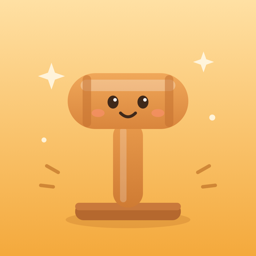
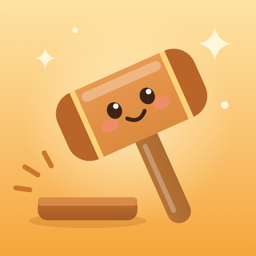
feat(아이콘): 내리치는 판사봉으로 다시 그림 — 다크 · 틴트 추가
그림은 scripts/make_app_icon.py 의 art() 가 전부다. 소개 페이지 아이콘도 같이 바꿨다.

diff --git a/scripts/render_svg.swift b/scripts/render_svg.swift
@@ -1,0 +1,16 @@
+import AppKit
+// SVG 한 장을 1024×1024 PNG 로 그린다 (→ make_app_icon.py).
+// 쓰기: render in.svg out.png opaque|alpha
+let a = CommandLine.arguments
+let img = NSImage(contentsOf: URL(fileURLWithPath: a[1]))!
+let opaque = a[3] == "opaque"
+let cs = CGColorSpace(name: CGColorSpace.sRGB)!
+let info = opaque ? CGImageAlphaInfo.noneSkipLast.rawValue : CGImageAlphaInfo.premultipliedLast.rawValue
+let ctx = CGContext(data: nil, width: 1024, height: 1024, bitsPerComponent: 8, bytesPerRow: 0, space: cs, bitmapInfo: info)!
+ctx.interpolationQuality = .high
+NSGraphicsContext.current = NSGraphicsContext(cgContext: ctx, flipped: false)
+img.draw(in: NSRect(x: 0, y: 0, width: 1024, height: 1024))
+let cg = ctx.makeImage()!
+let dest = CGImageDestinationCreateWithURL(URL(fileURLWithPath: a[2]) as CFURL, "public.png" as CFString, 1, nil)!
+CGImageDestinationAddImage(dest, cg, nil)
+print(CGImageDestinationFinalize(dest))

diff --git a/scripts/make_app_icon.py b/scripts/make_app_icon.py
@@ -1,0 +1,87 @@
+#!/usr/bin/env python3
+"""앱 아이콘 생성: 판사봉 캐릭터 SVG → 1024 PNG 세 벌(기본 · 다크 · 틴트) + 소개 페이지 아이콘.
+
+사용법:
+    python3 scripts/make_app_icon.py
+
+그림은 이 파일의 art() 가 전부다. 고친 뒤 다시 돌리면 AppIcon.appiconset 과 docs/icon.png 가 바뀐다.
+SVG → PNG 는 macOS 기본 그리기(scripts/render_svg.swift)로 한다. 따로 깔 것이 없다.
+"""
+import subprocess, pathlib, tempfile
+here=pathlib.Path(__file__).parent
+
+def art(mode):
+    gray = mode=="tinted"
+    def c(col, g):  # color or gray
+        return g if gray else col
+    bg = ""
+    if mode=="light":
+        bg = '<rect width="1024" height="1024" fill="url(#bg)"/><circle cx="512" cy="470" r="430" fill="url(#glow)"/>'
+    elif mode=="tinted":
+        bg = '<rect width="1024" height="1024" fill="url(#bgT)"/>'
+    spark = c("#FFF6DC","#FFFFFF") if mode!="dark" else "#FFE9B8"
+    line = c("#C9772B","#BDBDBD") if mode=="light" else c("#F2B45C","#BDBDBD")
+    shadow = '<ellipse cx="350" cy="884" rx="236" ry="30" fill="#B5651D" opacity=".28"/>' if mode=="light" else ''
+    return f'''<svg xmlns="http://www.w3.org/2000/svg" width="1024" height="1024" viewBox="0 0 1024 1024">
+<defs>
+<linearGradient id="bg" x1="0" y1="0" x2="0" y2="1"><stop offset="0" stop-color="#FFE3A3"/><stop offset="1" stop-color="#F5A63B"/></linearGradient>
+<linearGradient id="bgT" x1="0" y1="0" x2="0" y2="1"><stop offset="0" stop-color="#2E2E2E"/><stop offset="1" stop-color="#121212"/></linearGradient>
+<radialGradient id="glow"><stop offset="0" stop-color="#FFF4CF" stop-opacity=".75"/><stop offset="1" stop-color="#FFF4CF" stop-opacity="0"/></radialGradient>
+<linearGradient id="head" x1="0" y1="0" x2="0" y2="1"><stop offset="0" stop-color="{c('#F0A55A','#F2F2F2')}"/><stop offset="1" stop-color="{c('#D27D33','#BEBEBE')}"/></linearGradient>
+<linearGradient id="handle" x1="0" y1="0" x2="1" y2="0"><stop offset="0" stop-color="{c('#C4813F','#D0D0D0')}"/><stop offset="1" stop-color="{c('#9C5B26','#9A9A9A')}"/></linearGradient>
+<linearGradient id="block" x1="0" y1="0" x2="0" y2="1"><stop offset="0" stop-color="{c('#C47435','#B0B0B0')}"/><stop offset="1" stop-color="{c('#A45A24','#8A8A8A')}"/></linearGradient>
+<clipPath id="hc"><rect x="212" y="250" width="600" height="290" rx="92"/></clipPath>
+</defs>
+{bg}
+{shadow}
+<!-- 받침 -->
+<rect x="150" y="790" width="400" height="92" rx="40" fill="url(#block)"/>
+<rect x="150" y="790" width="400" height="34" rx="17" fill="{c('#D98A48','#CFCFCF')}"/>
+<!-- 탕! -->
+<g stroke="{line}" stroke-width="20" stroke-linecap="round" fill="none">
+<path d="M150 700 L98 668"/><path d="M118 760 L62 752"/><path d="M204 664 L176 612"/>
+</g>
+<!-- 판사봉 -->
+<g transform="translate(62 14) rotate(-24 512 512)">
+<rect x="464" y="470" width="96" height="440" rx="48" fill="url(#handle)"/>
+<rect x="484" y="560" width="20" height="300" rx="10" fill="#FFFFFF" opacity=".28"/>
+<rect x="212" y="250" width="600" height="290" rx="92" fill="url(#head)"/>
+<g clip-path="url(#hc)">
+<rect x="212" y="250" width="92" height="290" fill="{c('#B9652A','#8F8F8F')}"/>
+<rect x="720" y="250" width="92" height="290" fill="{c('#B9652A','#8F8F8F')}"/>
+<rect x="304" y="250" width="22" height="290" fill="{c('#FFD27A','#FFFFFF')}"/>
+<rect x="698" y="250" width="22" height="290" fill="{c('#FFD27A','#FFFFFF')}"/>
+<rect x="340" y="272" width="344" height="40" rx="20" fill="#FFFFFF" opacity=".30"/>
+</g>
+<!-- 얼굴 -->
+<ellipse cx="398" cy="436" rx="36" ry="24" fill="{c('#F58B6E','#9A9A9A')}" opacity=".85"/>
+<ellipse cx="626" cy="436" rx="36" ry="24" fill="{c('#F58B6E','#9A9A9A')}" opacity=".85"/>
+<ellipse cx="440" cy="388" rx="30" ry="34" fill="{c('#3F2415','#1C1C1C')}"/>
+<ellipse cx="584" cy="388" rx="30" ry="34" fill="{c('#3F2415','#1C1C1C')}"/>
+<circle cx="452" cy="374" r="11" fill="#FFFFFF"/><circle cx="596" cy="374" r="11" fill="#FFFFFF"/>
+<path d="M474 438 Q512 478 550 438" stroke="{c('#3F2415','#1C1C1C')}" stroke-width="16" stroke-linecap="round" fill="none"/>
+</g>
+<!-- 반짝 -->
+<g fill="{spark}">
+<path transform="translate(40 -44)" d="M820 150 Q830 208 888 218 Q830 228 820 286 Q810 228 752 218 Q810 208 820 150Z"/>
+<path d="M180 190 Q186 226 222 232 Q186 238 180 274 Q174 238 138 232 Q174 226 180 190Z"/>
+<circle cx="900" cy="420" r="15"/><circle cx="300" cy="120" r="11"/>
+</g>
+</svg>'''
+
+OUT = here.parent / "FamilyCourt" / "Assets.xcassets" / "AppIcon.appiconset"
+SITE = here.parent / "docs" / "icon.png"
+
+with tempfile.TemporaryDirectory() as tmp:
+    tmp = pathlib.Path(tmp)
+    render = tmp / "render"
+    subprocess.run(["swiftc", "-O", str(here / "render_svg.swift"), "-o", str(render)], check=True)
+    # 기본 · 틴트는 알파 없이(App Store 는 알파 있는 아이콘을 받지 않는다), 다크는 배경을 비운다.
+    for mode, name, alpha in [("light", "AppIcon", "opaque"), ("dark", "AppIcon-Dark", "alpha"), ("tinted", "AppIcon-Tinted", "opaque")]:
+        svg = tmp / f"{name}.svg"
+        svg.write_text(art(mode))
+        subprocess.run([str(render), str(svg), str(OUT / f"{name}.png"), alpha], check=True)
+        print("✅", OUT / f"{name}.png")
+# 소개 페이지 아이콘
+subprocess.run(["sips", "-z", "256", "256", str(OUT / "AppIcon.png"), "--out", str(SITE)], check=True, capture_output=True)
+print("✅", SITE)
